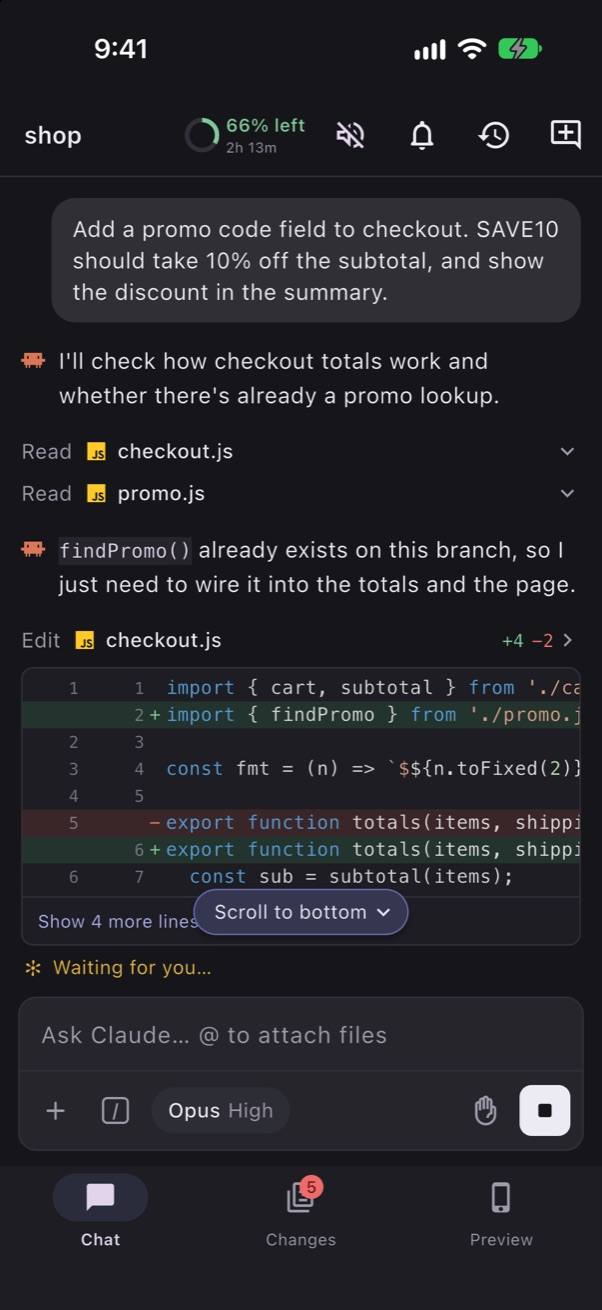
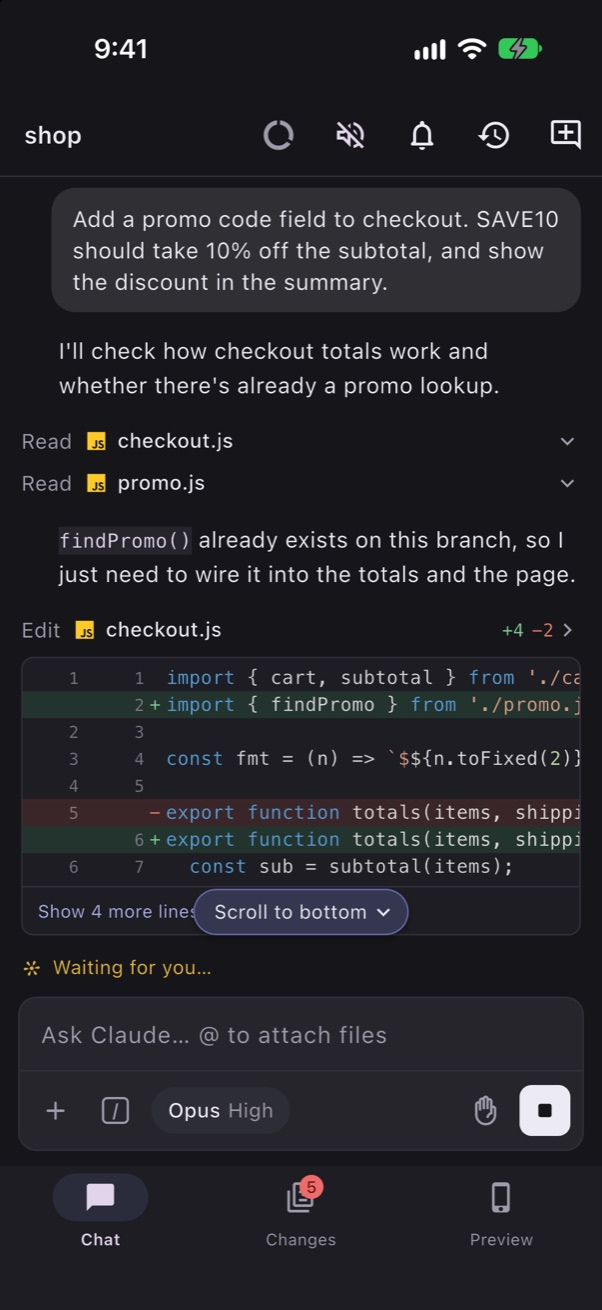
fix: align Claude wording with Anthropic policy
Per Anthropic Support and the Claude Code legal/Agent SDK pages: describe
Rift only as running Claude Code (plain text), drop subscription, plan,
quota and no-API-key claims, replace the quota card with permission
controls, and retake screenshots without plan badge, usage gauge or the
Claude Code mascot.

diff --git a/public/index.html b/public/index.html
@@ -4,13 +4,13 @@
   <meta charset="UTF-8" />
   <meta name="viewport" content="width=device-width, initial-scale=1" />
   <title>Rift: code on your computer from your phone</title>
-  <meta name="description" content="Rift connects your phone to your Mac or PC. Chat with Claude Code, review changes, and watch and control iOS simulators, Android emulators and web previews from any network, even with the Mac locked." />
+  <meta name="description" content="Rift connects your phone to your Mac or PC. Drive Claude Code running on your computer, use a real terminal and git, and control iOS simulators, Android emulators and web previews from any network, even with the Mac locked." />
   <meta name="theme-color" content="#0d0915" />
 
   <meta property="og:type" content="website" />
   <meta property="og:url" content="https://riftassistant.com/" />
   <meta property="og:title" content="Rift: code on your computer from your phone" />
-  <meta property="og:description" content="Chat with Claude Code, review diffs, and control live simulators, emulators and web previews from your phone. Your Claude subscription, your Tailscale network." />
+  <meta property="og:description" content="Drive Claude Code on your Mac from your phone: chat, terminal, git, and live simulators, emulators and web previews over your own Tailscale network." />
   <meta property="og:image" content="https://riftassistant.com/assets/icon.png" />
   <meta name="twitter:card" content="summary" />
 
@@ -279,8 +279,8 @@
         <div class="pill"><span class="dot"></span>Coming soon to iPhone and Android</div>
         <h1>Code on your Mac<br /><span class="soft">from your phone.</span></h1>
         <p class="lede">
-          Chat with <strong>Claude Code</strong>, run commands in a <strong>real terminal</strong>,
-          manage <strong>git</strong>, and control <strong>iOS simulators, Android emulators and web previews</strong>
+          Drive <strong>Claude Code</strong> running on your Mac, use a <strong>real terminal</strong>
+          and <strong>git</strong>, and control <strong>iOS simulators, Android emulators and web previews</strong>
           live, from any network. Your Mac can stay locked.
         </p>
         <div class="cta-row">
@@ -329,7 +329,7 @@
   <!-- ================= QUICK FACTS ================= -->
   <div class="wrap">
     <div class="facts">
-      <div class="fact"><b>Your Claude subscription</b><p>Uses the Claude Code login on your Mac. No API keys, no per-token billing.</p></div>
+      <div class="fact"><b>Runs on your computer</b><p>Claude Code runs on your Mac, in your projects. Rift has no servers in the middle.</p></div>
       <div class="fact"><b>Works with the Mac locked</b><p>Video comes from the simulator or emulator itself, not your Mac's screen.</p></div>
       <div class="fact"><b>Your own private network</b><p>Your phone reaches your Mac through your Tailscale tailnet. Nothing is exposed to the internet.</p></div>
     </div>
@@ -362,7 +362,7 @@
       <div>
         <p class="eyebrow">Git</p>
         <h2>Full git, not just a diff viewer</h2>
-        <p class="intro">Review what changed, then do the real work: branch, merge, rebase, fix history and push. Every action is a tap and uses no Claude quota.</p>
+        <p class="intro">Review what changed, then do the real work: branch, merge, rebase, fix history and push. Every action is a tap, no prompt needed.</p>
         <ul class="ticks two">
           <li><b>Live graph</b> of branches, tags and remotes</li>
           <li><b>Full-file diffs</b> with word-level highlights</li>
@@ -397,8 +397,8 @@
       <div class="grid">
         <div class="card">
           <div class="ico"><svg viewBox="0 0 24 24" fill="none" stroke="currentColor" stroke-width="2" stroke-linecap="round" stroke-linejoin="round"><path d="M21 12a8 8 0 0 1-11.6 7.1L4 20l1-4.6A8 8 0 1 1 21 12Z"/></svg></div>
-          <h3>Chat with Claude Code</h3>
-          <p>A full Claude Code session on your Mac, driven from your phone.</p>
+          <h3>Chat with Claude</h3>
+          <p>Rift runs Claude Code on your Mac. You drive the session from your phone.</p>
           <ul>
             <li>Approve tools and answer Claude's questions</li>
             <li>Attach photos, PDFs and files</li>
@@ -441,20 +441,20 @@
         </div>
 
         <div class="card">
-          <div class="ico"><svg viewBox="0 0 24 24" fill="none" stroke="currentColor" stroke-width="2" stroke-linecap="round" stroke-linejoin="round"><circle cx="12" cy="12" r="9"/><path d="M12 7v5l3 2"/></svg></div>
-          <h3>Quota guard</h3>
-          <p>When you hit your plan limit, or extra paid usage would start, Rift stops prompting and notifies your phone.</p>
+          <div class="ico"><svg viewBox="0 0 24 24" fill="none" stroke="currentColor" stroke-width="2" stroke-linecap="round" stroke-linejoin="round"><path d="M12 3 4 6v6c0 5 3.5 8 8 9 4.5-1 8-4 8-9V6l-8-3Z"/><path d="m9 12 2 2 4-4"/></svg></div>
+          <h3>You stay in control</h3>
+          <p>Decide how much Claude can do on its own, and stop it any time.</p>
           <ul>
-            <li>Never resumes on its own</li>
-            <li>Live plan usage and time to reset</li>
-            <li>Buttons like run, diff and commit use no quota</li>
+            <li>Ask before each tool, auto-accept edits, or plan first</li>
+            <li>A turn limit per prompt, so long tasks pause and check in</li>
+            <li>Run, diff and commit are buttons, no prompt needed</li>
           </ul>
         </div>
 
         <div class="card">
           <div class="ico"><svg viewBox="0 0 24 24" fill="none" stroke="currentColor" stroke-width="2" stroke-linecap="round" stroke-linejoin="round"><path d="M6 8a6 6 0 1 1 12 0c0 7 3 9 3 9H3s3-2 3-9"/><path d="M10.3 21a1.9 1.9 0 0 0 3.4 0"/></svg></div>
           <h3>Know when Claude needs you</h3>
-          <p>Get a push notification when Claude asks for approval, finishes a task or hits your plan limit.</p>
+          <p>Get a push notification when Claude asks for approval or finishes a task.</p>
           <ul>
             <li>Generic text only, never code or file paths</li>
             <li>Mute them from the app or VS Code</li>
@@ -474,7 +474,7 @@
         <p>Captured from the Rift app running against a real project: real git history, a real dev server and a live emulator.</p>
       </div>
       <div class="shots">
-        <figure class="shot"><img src="/assets/screens/home.jpg" width="603" height="1310" loading="lazy" alt="Rift home screen with the Mac's battery, network, CPU and temperature, plus shortcuts and recent chats" /><figcaption><b>Home</b>Your Mac at a glance, plan usage and recent chats.</figcaption></figure>
+        <figure class="shot"><img src="/assets/screens/home.jpg" width="603" height="1310" loading="lazy" alt="Rift home screen with the Mac's battery, network, CPU and temperature, plus shortcuts and recent chats" /><figcaption><b>Home</b>Your Mac at a glance, shortcuts and recent chats.</figcaption></figure>
         <figure class="shot"><img src="/assets/screens/chat-edits.jpg" width="603" height="1310" loading="lazy" alt="Rift chat showing Claude's file edits as inline diffs" /><figcaption><b>Edits as diffs</b>See exactly what Claude changed, line by line.</figcaption></figure>
         <figure class="shot"><img src="/assets/screens/changes.jpg" width="603" height="1310" loading="lazy" alt="Rift Changes tab listing modified files with lines added and removed" /><figcaption><b>Changes</b>Every file touched, ready to commit.</figcaption></figure>
         <figure class="shot"><img src="/assets/screens/browser.jpg" width="603" height="1310" loading="lazy" alt="Rift web preview of a local dev server at laptop size" /><figcaption><b>Web preview</b>Your dev server at any screen size.</figcaption></figure>
@@ -495,8 +495,8 @@
         <div class="node"><b>Rift app</b><span>iPhone or Android. Chat, Changes, Device and Preview.</span></div>
         <div class="link">Tailscale<br />HTTPS + WebRTC</div>
         <div class="node"><b>Rift agent</b><span>Runs on your Mac or PC. Git, dev servers, simulators, video.</span></div>
-        <div class="link">your login</div>
-        <div class="node"><b>Claude Code</b><span>Your own Claude subscription, through the Claude Agent SDK.</span></div>
+        <div class="link">same computer</div>
+        <div class="node"><b>Claude Code</b><span>Installed on your computer and set up by you. Rift starts and drives it.</span></div>
       </div>
 
       <div class="steps">
@@ -582,7 +582,7 @@
           <ul>
             <li>A Mac (or a Windows PC for Android and web)</li>
             <li>Tailscale on your computer and phone, same account</li>
-            <li>Claude Code, logged in with your Claude plan, for chat. Devices and previews work without it.</li>
+            <li>Claude Code installed and set up on your computer, for chat. Devices, previews and git work without it.</li>
             <li>Keep the computer awake: plugged in, lid open (or closed with an external display). The screen can lock.</li>
           </ul>
         </div>
@@ -608,8 +608,8 @@
       </div>
       <div class="faq">
         <details>
-          <summary>Do I need an Anthropic API key?</summary>
-          <p>No. Rift uses the Claude Code login on your computer. It removes API-key variables from Claude's environment and refuses to run if a key would be used, so you're never billed per token by Rift.</p>
+          <summary>Does Rift include Claude?</summary>
+          <p>No. Rift runs Claude Code that you install and set up yourself on your computer, under your own agreement with Anthropic. Rift doesn't sell, include or resell any Claude usage.</p>
         </details>
         <details>
           <summary>Does my Mac need to stay unlocked?</summary>
@@ -618,10 +618,6 @@
         <details>
           <summary>Does it work away from home?</summary>
           <p>Yes. Rift connects over Tailscale, so it works on mobile data or any Wi-Fi, as long as your phone and computer are signed in to the same Tailscale account.</p>
-        </details>
-        <details>
-          <summary>What happens when I hit my Claude plan limit?</summary>
-          <p>Rift stops sending prompts and notifies your phone. It won't continue into extra paid usage, and it won't resume on its own. You pick it back up after your limit resets.</p>
         </details>
         <details>
           <summary>Can I use it without Claude Code?</summary>
@@ -667,7 +663,7 @@
       </nav>
       <span>© 2026 riftassistant.com</span>
     </div>
-    <p class="disclaimer">Rift is an independent product and is not affiliated with or endorsed by Anthropic. Claude and Claude Code are trademarks of Anthropic. Tailscale is a trademark of Tailscale Inc.</p>
+    <p class="disclaimer">Rift is an independent product and is not affiliated with or endorsed by Anthropic. Claude and Claude Code are trademarks of Anthropic. Claude Code is used under your own agreement with Anthropic. Tailscale is a trademark of Tailscale Inc.</p>
   </div>
 </footer>
 

diff --git a/tools/demo-agent/README.md b/tools/demo-agent/README.md
@@ -21,3 +21,10 @@ sips -s format jpeg -s formatOptions 82 -Z 1310 shot.png --out ../../public/asse
 ```
 
 Afterwards: `rift revoke <device id>`, delete `.token`, and `rm -rf ~/Workspace/shop` if you like.
+
+## Anthropic policy (keep screenshots compliant)
+
+- No plan name or plan usage in shots: the mock hides them by default (`DEMO_SHOW_PLAN=1` brings them back for internal testing only).
+- Don't show Claude Code's mascot or logo: the app's chat avatar must be masked in any chat screenshot.
+- Wording on the site: "runs Claude Code" in plain text only; no subscription, plan or "no API key" claims until Anthropic Sales approves.
+  Sources: code.claude.com/docs/en/legal-and-compliance and code.claude.com/docs/en/agent-sdk/overview.

diff --git a/README.md b/README.md
@@ -2,7 +2,7 @@
 
 Official landing page for **Rift Assistant** ([riftassistant.com](https://riftassistant.com)).
 
-> Code on your Mac from your phone. Chat with Claude Code, review what changed, and watch and control iOS simulators, Android emulators and web previews live, from any network. Your Mac can stay locked.
+> Code on your Mac from your phone. Drive Claude Code running on your Mac, use a real terminal and git, and watch and control iOS simulators, Android emulators and web previews live, from any network. Your Mac can stay locked.
 
 ## 🚀 Deployment (Railway)
 
